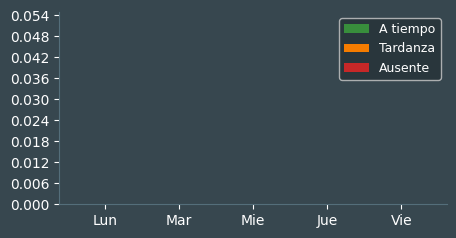
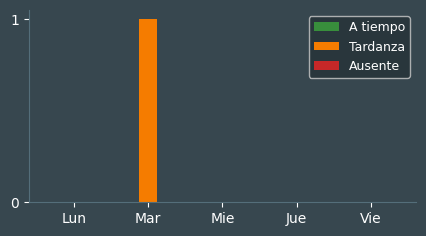
Dashboard de Reportes 100% funcional

diff --git a/interfaz_usuario/camara.py b/interfaz_usuario/camara.py
@@ -36,6 +36,7 @@ class CamaraApp(ft.Container):
         
         self.lbl_resultado_titulo = ft.Text("Usuario Identificado:", color="white54", size=18)
         self.lbl_nombre = ft.Text("Esperando código QR...", color="yellow", size=24, weight="bold", text_align=ft.TextAlign.CENTER)
+        self.lbl_estado = ft.Text("", size = 20, weight = "bold", text_align=ft.TextAlign.CENTER)
         self.lbl_mensaje = ft.Text("", size=18, weight="bold", text_align=ft.TextAlign.CENTER)
         
         # Contenedor que muestra los datos del empleado
@@ -53,6 +54,8 @@ class CamaraApp(ft.Container):
                 ft.Container(expand=True), 
                 self.lbl_resultado_titulo,
                 self.lbl_nombre,
+                self.lbl_estado,
+                self.lbl_mensaje,
                 ft.Container(expand=True)
             ],
             alignment=ft.MainAxisAlignment.CENTER,
@@ -88,6 +91,12 @@ class CamaraApp(ft.Container):
             if not ret:
                 self.capture.release()
                 self.capture = cv2.VideoCapture(0)
+
+        cv2.namedWindow("Camara", cv2.WINDOW_NORMAL)
+        cv2.resizeWindow("Camara", 640, 480)
+        cv2.moveWindow("Camara", 900, 150)
+
+        #cv2.setWindowProperty("Camara", cv2.WND_PROP_TOPMOST, 1)
         
         while self.is_running:
             if self.capture is None or not self.capture.isOpened():
@@ -98,6 +107,10 @@ class CamaraApp(ft.Container):
             if not ret:
                 time.sleep(0.01)
                 continue
+
+            color_rect = (0,255,0)
+            mensaje_overlay = ""
+            color_mensaje = (0, 255, 0)
              
             # Dibuja el área de detección del QR
             cv2.putText(frame, 'Localizar el codigo QR', (160, 80), cv2.FONT_HERSHEY_SIMPLEX, 1, (0, 255, 0), 2)
@@ -132,18 +145,28 @@ class CamaraApp(ft.Container):
                     empleado = buscar_por_qr(codigo_qr)
 
                     if not empleado:
+                        mensaje_overlay = "QR no reconocido"
+                        color_rect = (0, 0, 255)
+                        color_mensaje = (0, 0, 255)
                         self.lbl_nombre.value = "QR no reconocido"
                         self.lbl_nombre.color = ft.Colors.RED
                         self.lbl_nombre.update()
+                        self.main_page.update()
+                        time.sleep(2)
                         continue
 
                     id_empleado = empleado[0]
                     nombre_completo = f"{empleado[1]} {empleado[2]}"
 
                     if id_empleado != self.id_empleado_login:
+                        color_rect = (0, 165, 255)
+                        mensaje_overlay = "QR no autorizado"
+                        color_mensaje = (0, 165, 255)
                         self.lbl_nombre.value = "QR no autorizado"
                         self.lbl_nombre.color = ft.Colors.RED
                         self.lbl_nombre.update()
+                        self.main_page.update()
+                        time.sleep(2)
 
                         continue
                     
@@ -156,6 +179,7 @@ class CamaraApp(ft.Container):
                     self.lbl_nombre.value = nombre_completo
                     self.lbl_nombre.color = ft.Colors.GREEN_ACCENT_400
                     self.lbl_nombre.update()
+                    self.main_page.update()
 
                  
                     # Registra de asistencia según el horario de Lunes a Viernes
@@ -170,12 +194,29 @@ class CamaraApp(ft.Container):
                             estado = "A Tiempo"
 
                         else:
-                            estado = "Tarde"
+                            estado = "Tardanza"
 
+                    
+                        self.lbl_estado.value = f"{estado}"
+                        self.lbl_estado.color = ft.Colors.GREEN if estado == "A Tiempo" else ft.Colors.ORANGE
+                        self.lbl_estado.update()
+                        self.main_page.update()
+
+                        print("Estado que se guardará:", estado)
                         
                         self._guardar_sql(id_empleado, estado)
-
                         self._guardar_excel(nomar, estado, nombre_completo)
+
+                        color_rect = (0, 255, 0)
+                        mensaje_overlay = f"{nombre_completo} - {estado}"
+                        color_mensaje = (0, 255, 0)
+
+                        self.lbl_nombre.value = nombre_completo
+                        self.lbl_nombre.color = ft.Colors.GREEN_ACCENT_400
+                        self.lbl_nombre.update()
+                        self.main_page.update()
+
+                        cv2.imshow("Camara", frame)
 
                         cv2.putText(
                             frame,
@@ -187,21 +228,42 @@ class CamaraApp(ft.Container):
                             2
                         )
 
+                        cv2.imshow("Camara", frame)
+                        cv2.waitKey(1)
+                        time.sleep(2.5)
+
+                        self.is_running = False
+                        break
+
                                 
                 except Exception as e:
                     print(f"Error procesando QR: {e}")
-            
+
+            if mensaje_overlay:
+                overlay = frame.copy()
+                cv2.rectangle(overlay, (0, 420), (640, 480), (0, 0, 0), -1)
+                cv2.addWeighted(overlay, 0.6, frame, 0.4, 0, frame)
+                cv2.putText(
+                    frame,
+                    mensaje_overlay,
+                    (20, 460),
+                    cv2.FONT_HERSHEY_SIMPLEX,
+                    0.8,
+                    color_mensaje,
+                    2
+                )
+
+            cv2.rectangle(frame, (170, 100), (470, 400), color_rect, 2)
+
             try:
                 if self.is_running:
                     self.main_page.update()
             except Exception:
                 pass
             
-            cv2.imshow("camara", frame)
-            if cv2.waitKey(1) == 27 : #cierra con el teclado esc
-                break
+            cv2.imshow("Camara", frame)
+            cv2.waitKey(1) #cierra con el teclado esc
             
-            time.sleep(0.03)
             
         self.is_running = False
 

diff --git a/interfaz/vista_reportes.py b/interfaz/vista_reportes.py
@@ -1,12 +1,18 @@
 import flet as ft
+import time
 from interfaz.vista_empleados import vista_empleados
 from interfaz.vista_usuarios import vista_usuarios
 from database import reportes
 from database import conexion
 
-def vista_reportes(page):
+def vista_reportes(page, cambio_menu):
     '''Muestra el dashboard de reportes con cards de métricas, gráfico semanal,
     botones de exportación y tabla de últimos registros de asistencia.'''
+
+    def actualizar_dashboard(e):
+        """Permite actualizar los datos de la vista de reportes"""
+
+
 
     conectar = conexion.conexion()
 
@@ -130,7 +136,7 @@ def vista_reportes(page):
     contenido = ft.Container(
         expand = True,
         bgcolor = ft.Colors.BLUE_GREY_900,
-        padding = 16,
+        padding = 5,
 
         content = ft.Column(
             expand = True,
@@ -138,6 +144,26 @@ def vista_reportes(page):
             horizontal_alignment = ft.CrossAxisAlignment.STRETCH,
 
             controls = [
+
+                ft.Row(
+                    height = 30,
+                    alignment = ft.MainAxisAlignment.SPACE_BETWEEN,
+                    vertical_alignment = ft.CrossAxisAlignment.CENTER,
+                    controls = [
+                        ft.Text("Dashboard",
+                                size = 20,
+                                weight = "bold",
+                                color = "white"
+                        ),
+
+                        ft.IconButton(
+                            icon = ft.Icons.REFRESH,
+                            icon_color = "white",
+                            tooltip = "Actualizar info",
+                            on_click = lambda e: cambio_menu(vista_reportes(page, cambio_menu))
+                        )
+                    ]
+                ),
 
                 ft.Row(
                     spacing = 16,
@@ -465,11 +491,11 @@ def vista_reportes(page):
                                             ),
 
                                             ft.Image(
-                                                src = "pie_asistencia.png",
+                                                src = f"pie_asistencia.png",
                                                 width = 400,
                                                 height = 250,
                                                 fit = "contain"
-                                            ),
+                                            )
                                         ]    
                                     )
                                 ),
@@ -487,7 +513,7 @@ def vista_reportes(page):
                                         controls = [
                                             ft.Text("Asistencia semanal", color = "white54", size = 14, weight = "bold"),
                                             ft.Image(
-                                                src = "bar_asistencia.png",
+                                                src = f"bar_asistencia.png",
                                                 width = 550,
                                                 height = 140,
                                                 fit = "contain"
@@ -509,10 +535,15 @@ def vista_reportes(page):
                     content = ft.Column(
                         controls = [
                             ft.Text("Últimos registros de asistencia", color = "white54", size = 14, weight = "bold"),
-                            ft.Column(
-                                scroll = "auto",
-                                controls = [tabla]
+
+                            ft.Container(
+                                expand = True,
+                                content = ft.Column(
+                                    scroll = "auto",
+                                    controls = [tabla]
+                                )
                             )
+                            
                         ]
                     )
                 ),

diff --git a/interfaz/menu.py b/interfaz/menu.py
@@ -41,7 +41,9 @@ def vista_menu(page):
 
         page.run_task(cargar)
 
-        
+        return area_principal
+    
+
     area_principal = ft.Container(
         expand = True,
         bgcolor = ft.Colors.BLUE_GREY_900,
@@ -86,7 +88,7 @@ def vista_menu(page):
                 style = ft.ButtonStyle(
                     shape = ft.RoundedRectangleBorder(radius = 5),
                 ),
-                on_click = lambda e: cambio_menu(vista_reportes(page))
+                on_click = lambda e: cambio_menu(vista_reportes(page, cambio_menu))
            
             ),
 
